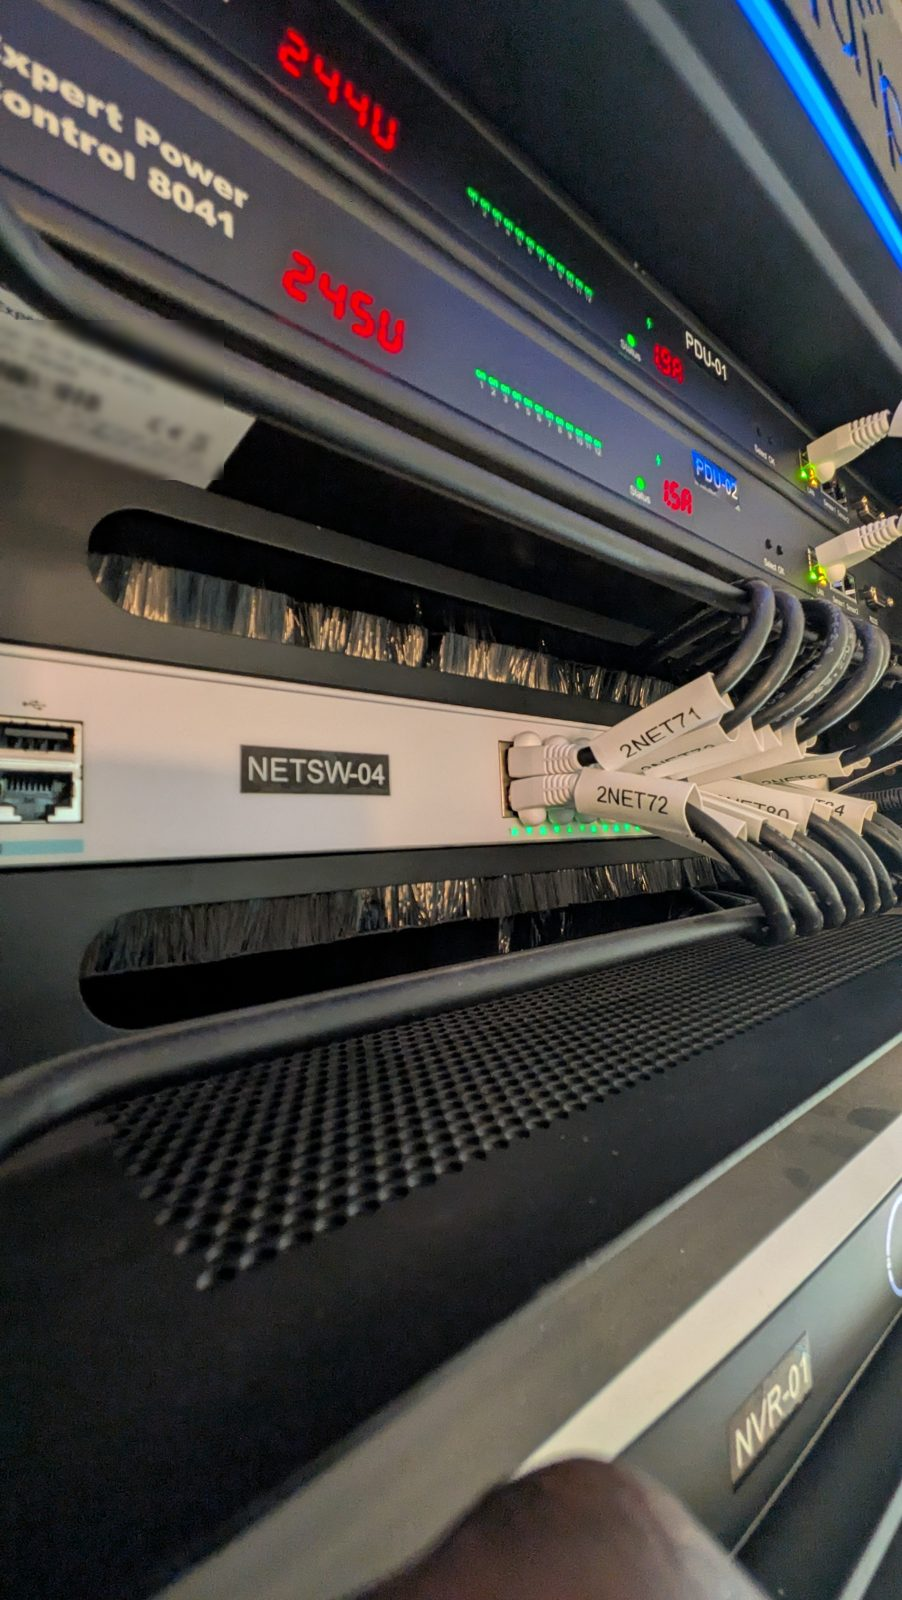
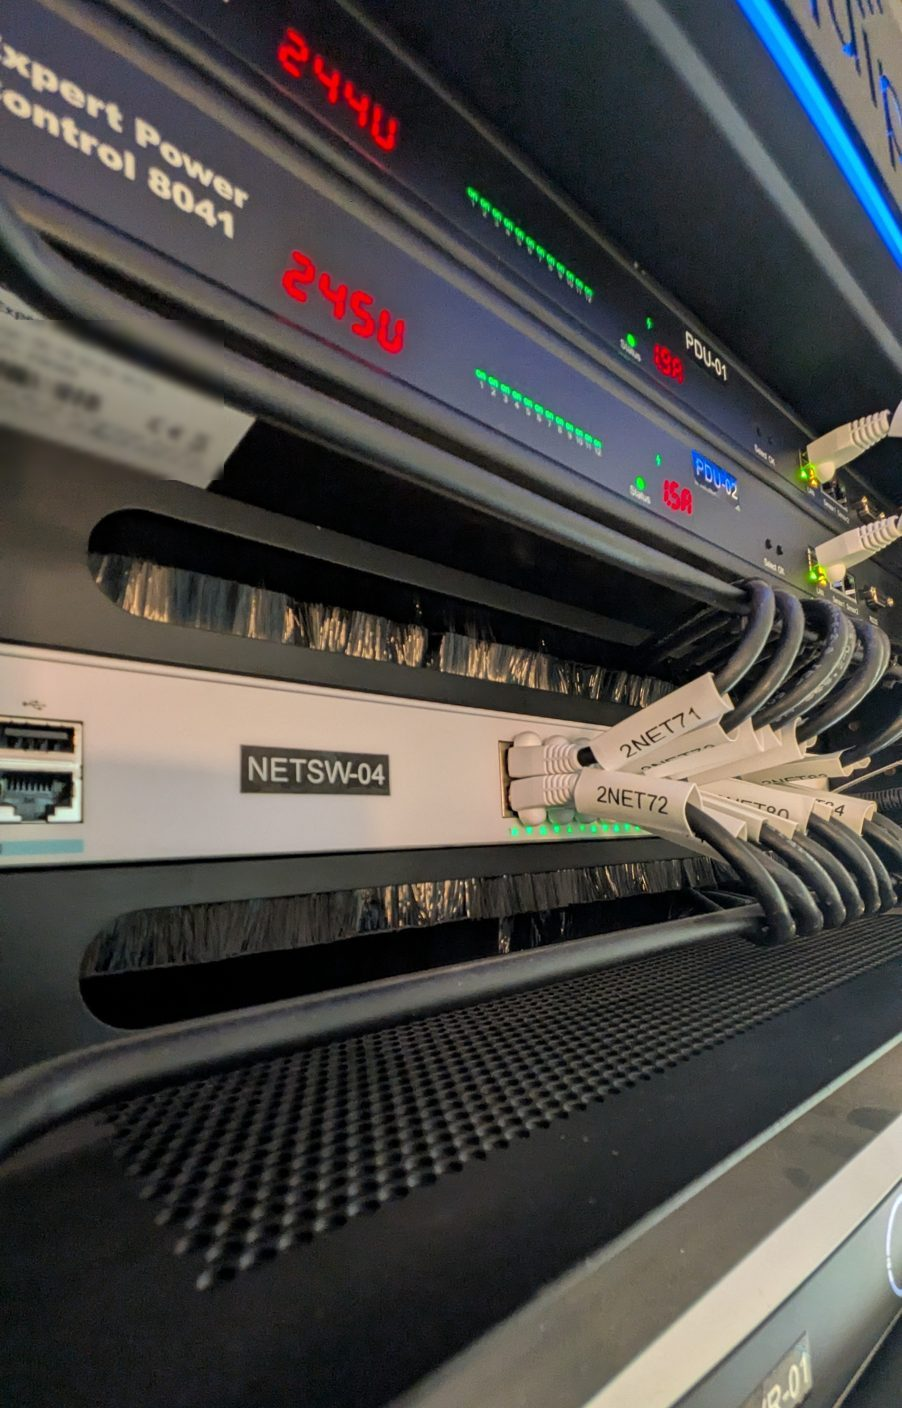
Add selected rack builds case study

diff --git a/_projects/selected-rack-builds.md b/_projects/selected-rack-builds.md
@@ -1,0 +1,36 @@
+---
+title: Selected Rack Builds
+category: Residential
+role: Rack Build & Commissioning Engineer
+focus: Network / Power / Patching
+status: Various Projects
+
+# Cards on the home page and the Work page
+group: rack-builds
+featured: true
+order: 3
+summary: A selection of network and AV racks from residential projects, covering switching, patching, power and labelling.
+
+hero: /assets/images/racks/rack-front-full.jpg
+hero_alt: A full network rack with patch panels paired to the switches above them
+hero_position: center 35%
+
+gallery:
+  - image: /assets/images/racks/switch-patching-detail.jpg
+    alt: Short patch leads running from a patch panel to a labelled switch
+    caption: Short patch leads from panel to switch, with each switch labelled.
+  - image: /assets/images/racks/pdu-and-switch-detail.jpg
+    alt: Network-managed power units above a switch with labelled leads
+    caption: Network-managed power distribution above the switching, with every lead labelled.
+  - image: /assets/images/racks/tall-rack-switch-stacks.jpg
+    alt: A tall rack of switch stacks and patch panels
+    caption: A larger rack, with switch stacks and patch panels arranged for clear, colour-coded patching.
+  - image: /assets/images/racks/wall-rack-patching.jpg
+    alt: A wall-mounted rack, patched and labelled
+    caption: A wall-mounted rack for a smaller space, patched and labelled to the same standard.
+---
+## The Approach
+
+Racks from several residential projects, each built to the same standards: switches and patch panels paired so every lead is short and traceable, power kept apart from data, every device and lead labelled, and room left to service the rack later.
+
+The banner shows a full rack, with patch panels paired with the switches above them, short colour-coded leads and power at the bottom.
